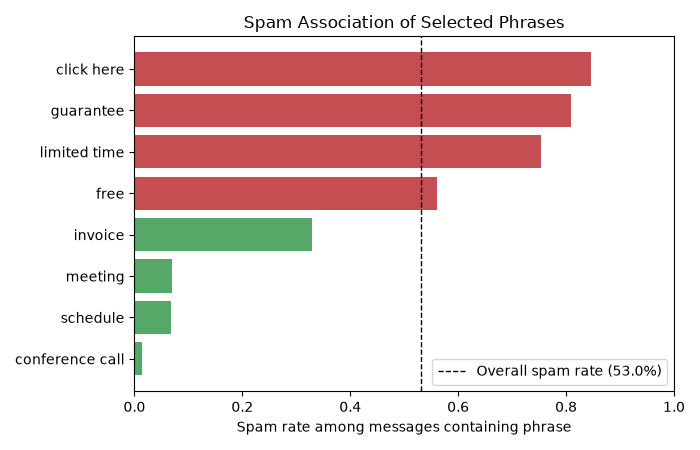
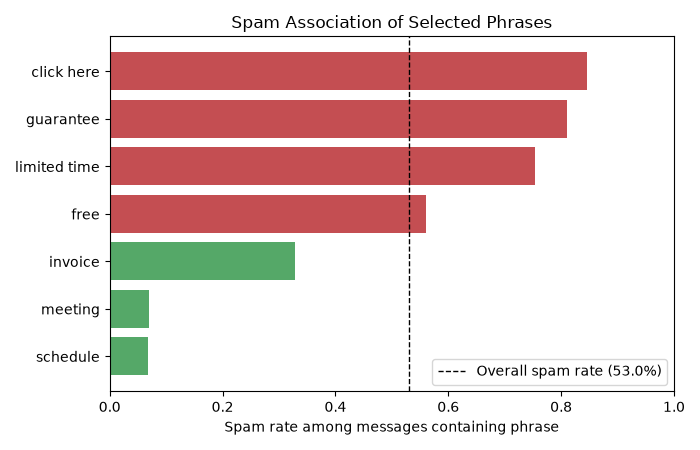
fix: removes one vocab in the graph

diff --git a/src/figures/figures_data_analysis.py b/src/figures/figures_data_analysis.py
@@ -138,7 +138,7 @@ def fig_dataset_composition():
     plt.savefig(OUT_DIR / "fig_dataset_composition.png", dpi=300)
 
 
-VOCAB_PHRASES = ["click here", "guarantee", "limited time", "free", "invoice", "conference call", "schedule", "meeting"]
+VOCAB_PHRASES = ["click here", "guarantee", "limited time", "free", "invoice", "schedule", "meeting"]
 
 # Vocabulary association with spam and ham
 def fig_vocab_association():
@@ -165,6 +165,7 @@ def fig_vocab_association():
     ax.legend(loc="lower right")
     plt.tight_layout()
     plt.savefig(OUT_DIR / "fig_vocab_association.png")
+    print(assoc)
 
 
 if __name__ == "__main__":
